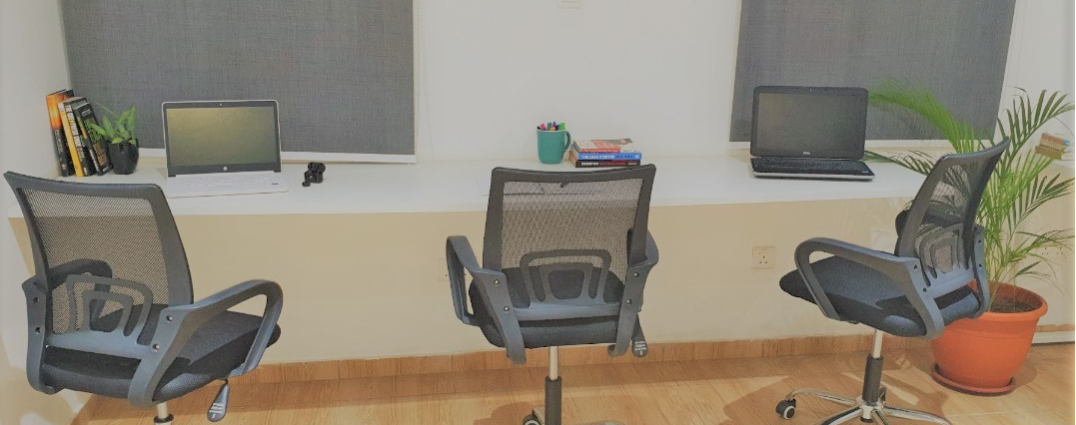
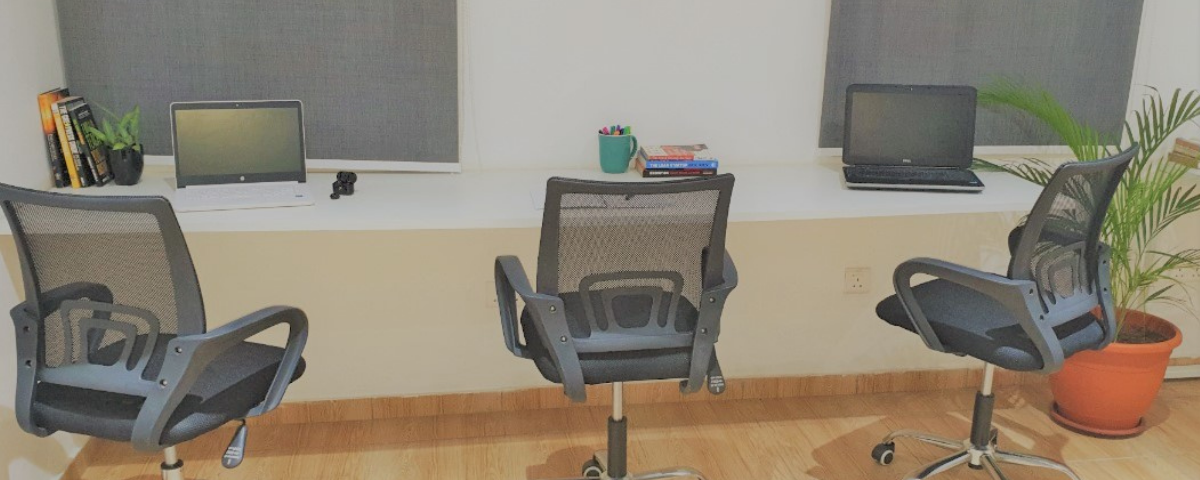
functionalities added

diff --git a/index.html b/index.html
@@ -499,36 +499,36 @@
               <li data-target="#carouselExampleIndicators" data-slide-to="8"></li>
               <li data-target="#carouselExampleIndicators" data-slide-to="9"></li>
             </ol>
-            <div class="carousel-inner" style="height: 400px;">
+            <div class="carousel-inner">
               <div class="carousel-item active">
-                <img class="d-block w-100" src="images/FilteredImages/1.jpg" alt="First slide">
+                <img class="d-block w-100" src="images/FilteredImages/image1.png" alt="First slide">
               </div>
               <div class="carousel-item">
-                <img class="d-block w-100" src="images/FilteredImages/2.jpg" alt="Second slide">
+                <img class="d-block w-100" src="images/FilteredImages/image2.png" alt="Second slide">
               </div>
               <div class="carousel-item">
-                <img class="d-block w-100" src="images/FilteredImages/3.jpg" alt="Third slide">
+                <img class="d-block w-100" src="images/FilteredImages/image3.png" alt="Third slide">
               </div>
               <div class="carousel-item">
-                <img class="d-block w-100" src="images/FilteredImages/4.jpg" alt="fourth slide">
+                <img class="d-block w-100" src="images/FilteredImages/image4.png" alt="fourth slide">
               </div>
               <div class="carousel-item">
-                <img class="d-block w-100" src="images/FilteredImages/5.jpg" alt="fifth slide">
+                <img class="d-block w-100" src="images/FilteredImages/image5.png" alt="fifth slide">
               </div>
               <div class="carousel-item">
-                <img class="d-block w-100" src="images/FilteredImages/6.jpg" alt="seventh slide">
+                <img class="d-block w-100" src="images/FilteredImages/image6.png" alt="seventh slide">
               </div>
               <div class="carousel-item">
-                <img class="d-block w-100" src="images/FilteredImages/7.jpg" alt="seventh slide">
+                <img class="d-block w-100" src="images/FilteredImages/image7.png" alt="seventh slide">
               </div>
               <div class="carousel-item">
-                <img class="d-block w-100" src="images/FilteredImages/8.jpg" alt="seventh slide">
+                <img class="d-block w-100" src="images/FilteredImages/image8.png" alt="seventh slide">
               </div>
               <div class="carousel-item">
-                <img class="d-block w-100" src="images/FilteredImages/9.jpg" alt="seventh slide">
+                <img class="d-block w-100" src="images/FilteredImages/image9.png" alt="seventh slide">
               </div>
               <div class="carousel-item">
-                <img class="d-block w-100" src="images/FilteredImages/10.jpg" alt="seventh slide">
+                <img class="d-block w-100" src="images/FilteredImages/image10.png" alt="seventh slide">
               </div>
  
              <a class="carousel-control-prev" href="#carouselExampleIndicators" role="button" data-slide="prev">
@@ -547,7 +547,7 @@
         </section>
 
 <!--memebers testimonal-->
-<section class="section bg-light" id="testimonial" >
+<section class="section bg-light" id="testimonial">
     <div class="container">
         <div class="row justify-content-center">
             <div class="col-12">

diff --git a/css/style.css b/css/style.css
@@ -2725,7 +2725,7 @@ button:not(:disabled) {
   #commu .detailed-plan{
     height: 480px;
   }
-  
+
   .form-container #close{
     margin-top: -47em;
   }
@@ -3092,18 +3092,17 @@ button:not(:disabled) {
 .form-popup h3,.form-popup2 h5{
   text-align: center;
   font-family:  sans-serif;
-
 }
 .form-popup2 p{
   text-align: center;
   font-size: 15px;
   color: rgb(132, 146, 166);
- 
-}
+ }
 .form-popup2 label{
   font-size: 15px;
   color: #212529;
 }
+
 
 /* Add styles to the form container */
 .form-container{
